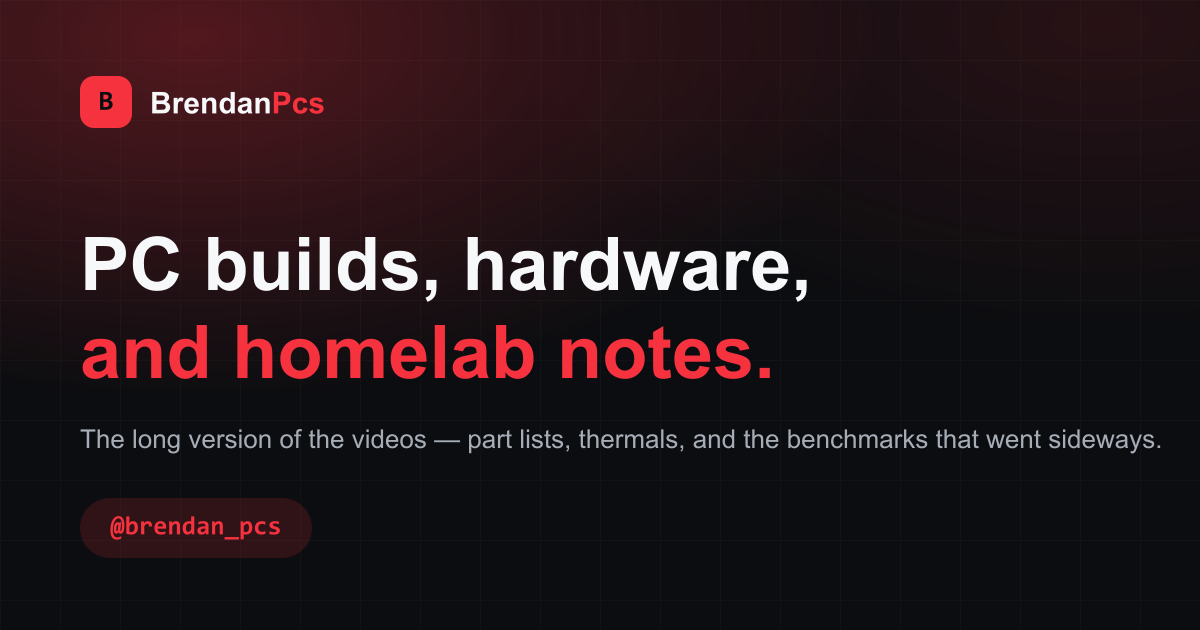
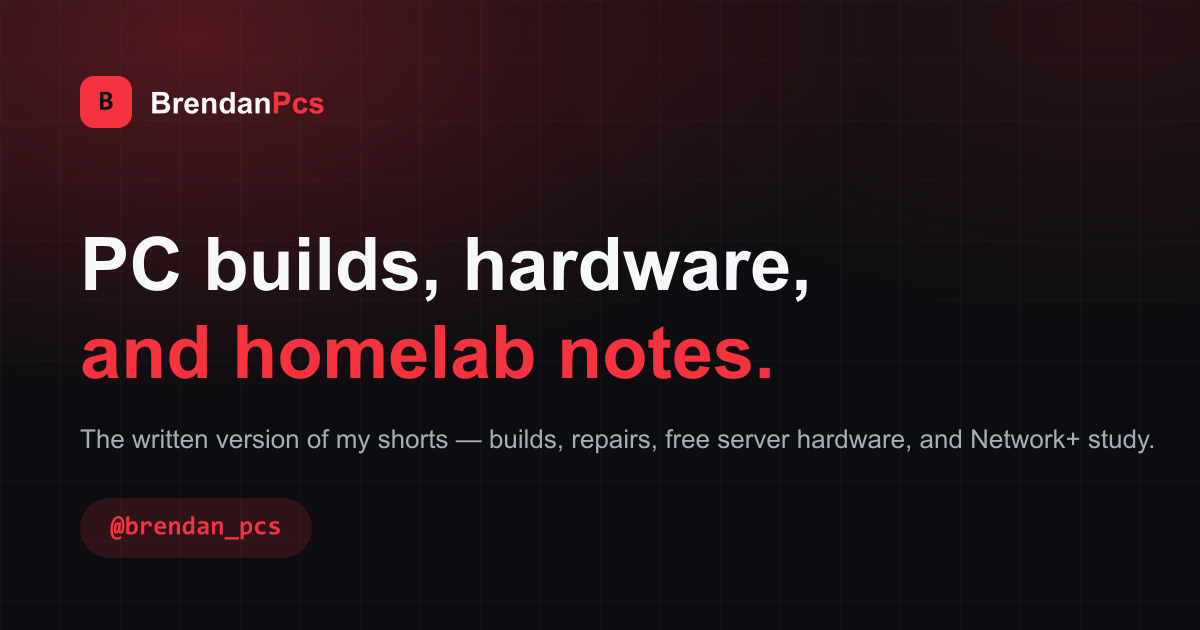
Rewrite the About page from the actual video content
The page was scaffolding written before there were any posts, and it claimed a
benchmarking practice that does not exist -- driver versions, ambient
temperature, runs per number. All of that is gone.

What replaces it comes from the transcripts: the home lab assembled from a
switch and storage servers the college gave away plus drive bays from work, the
2017 i5 running the Minecraft servers, the Network+ deadline with a job riding
on it, the brother's PC twice over, the flip build, and a first go at Linux.

The sitewide description, footer tagline, and OG image line had the same
invented "hardware teardowns and benchmarks" framing, so they now match too.

Changed region(s): [[0.0925, 0.6635, 0.9558, 0.7238]]

diff --git a/src/data/site.ts b/src/data/site.ts
@@ -10,8 +10,8 @@ export const SITE = {
   url: 'https://brendanpcs.com',
   title: 'BrendanPcs — PC builds, hardware, and homelab notes',
   description:
-    'Tech write-ups from Brendan: PC builds, hardware teardowns, homelab experiments, and the occasional benchmark that did not go to plan.',
-  tagline: 'PC builds, hardware, and the notes I wish I had the first time.',
+    'The written version of my shorts — PC builds and repairs, a home lab put together from free hardware, and studying for my Network+.',
+  tagline: 'PC builds, a home lab made of free hardware, and studying for my Network+.',
   email: 'brendancomputers@gmail.com',
   /** Used in the footer copyright line. */
   startYear: 2026,
